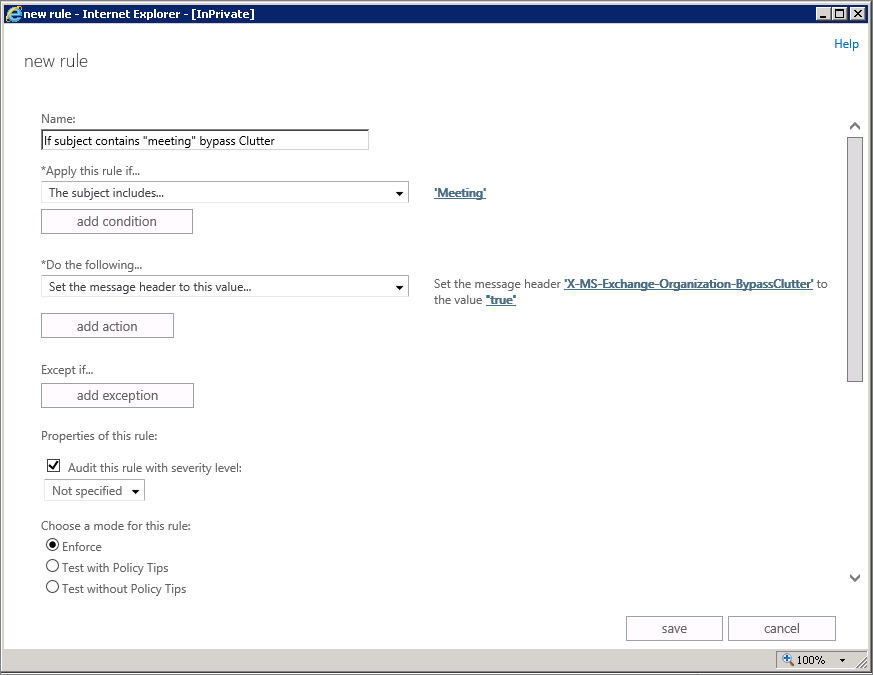
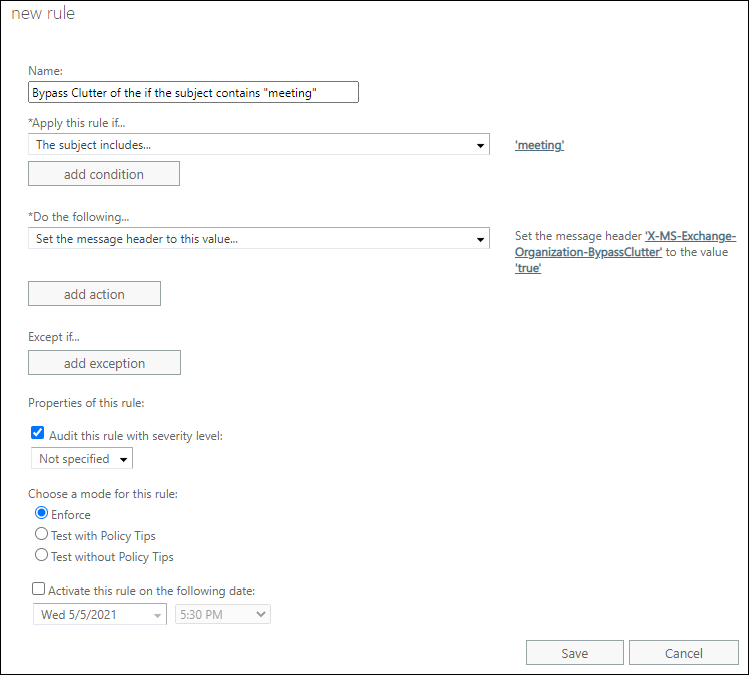
Art and other minor updates to transport rule topics

diff --git a/Exchange/ExchangeOnline/security-and-compliance/mail-flow-rules/use-rules-to-bypass-clutter.md b/Exchange/ExchangeOnline/security-and-compliance/mail-flow-rules/use-rules-to-bypass-clutter.md
@@ -40,11 +40,18 @@ For additional management tasks related to mail flow rules, check out [Mail flow
 
 This example allows all messages with title "Meeting" to bypass clutter.
 
-1. In the Exchange admin center (EAC), go to **Mail flow** \> **Rules**. Click **New** ![Add Icon](../../media/ITPro_EAC_AddIcon.gif) and then choose **Create a new rule...**.
+1. In the EAC, go to **Mail flow** \> **Rules**.
+
+2. Click **New** ![Add Icon](../../media/ITPro_EAC_AddIcon.gif) and then select **Create a new rule**.
+
+3. In the **New rule** page that opens, configure the following settings:
+   - **Name**: Enter something descriptive. For example, Bypass Clutter if the subject contains "meeting".
+   - **Apply this rule if** \> **The subject includes** \> meeting
+   - **Do the following** \> **Set the message header to this value** \> X-MS-Exchange-Organization-BypassClutter: true.
 
    ![Art example: If subject contains meeting, bypass clutter](../../media/75957aa4-4b2a-4142-92ff-07f8ccc64d82.png)
 
-2. After you're done creating the new rule, click **Save** to start the rule.
+4. When you're finished, click **Save**.
 
 ## Use Exchange Online PowerShell to create a mail flow rule to bypass the clutter folder
 

diff --git a/Exchange/ExchangeOnline/security-and-compliance/mail-flow-rules/common-message-approval-scenarios.md b/Exchange/ExchangeOnline/security-and-compliance/mail-flow-rules/common-message-approval-scenarios.md
@@ -131,7 +131,7 @@ You need two rules. If the first rule checks the subject line or message body, t
 
 ## Forward a message that contains sensitive information
 
-If you have the [Data loss prevention](../../security-and-compliance/data-loss-prevention/data-loss-prevention.md)(DLP) feature, many types of sensitive information are predefined. With DLP, you see that the message contains a sensitive information condition. Whether or not you have DLP, you can create conditions that identify specific sensitive information patterns that are unique to your organization.
+If you have the [Data loss prevention](../../security-and-compliance/data-loss-prevention/data-loss-prevention.md) (DLP) feature, many types of sensitive information are predefined. With DLP, you see that the message contains a sensitive information condition. Whether or not you have DLP, you can create conditions that identify specific sensitive information patterns that are unique to your organization.
 
 Here's an example where messages that contain a credit card number require approval.
 
